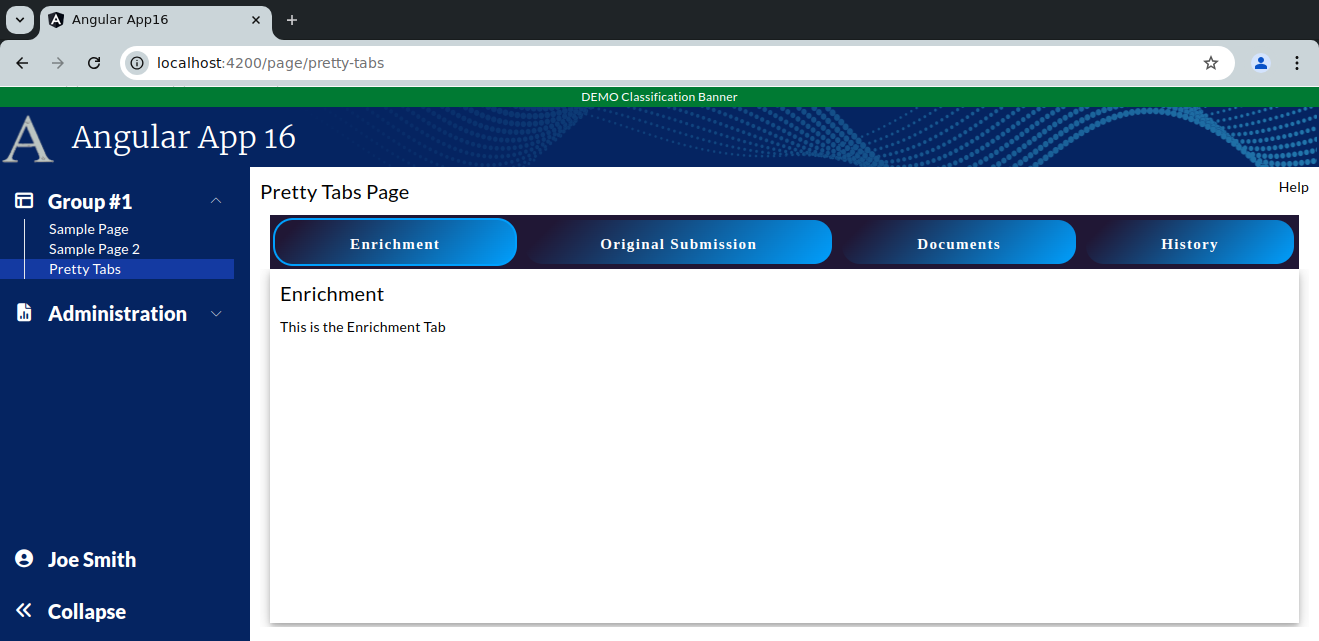
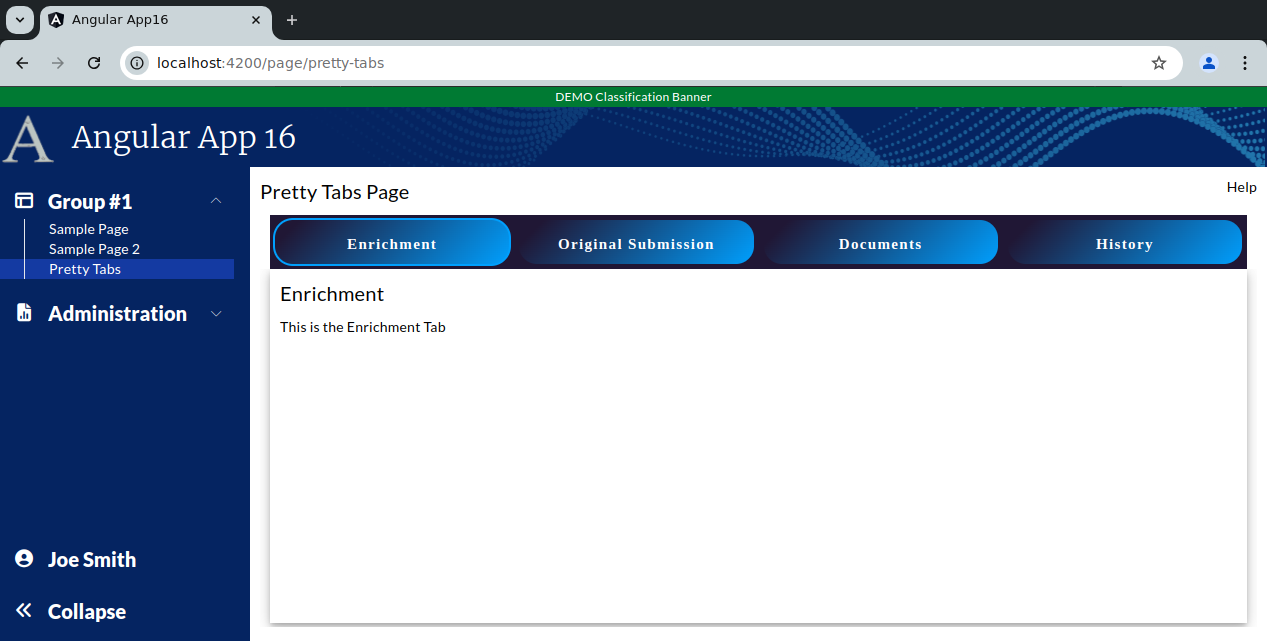
Continue working on exercise12b

diff --git a/learnAngular/lessons_Angular16/exercises/exercise12b.make-tabs-pretty.answers.md b/learnAngular/lessons_Angular16/exercises/exercise12b.make-tabs-pretty.answers.md
@@ -394,7 +394,7 @@ Part 4:  Build Tab Group v4  (Change the gradient colors)
     
     :host ::ng-deep .mdc-tab {
       /* Styles for ALL tabs */
-      //min-width: 175px !important;
+      width: 175px !important;           /* Set every tab to be 175px wide */
       color: white;
       font-family: 'Open Sans';
       font-style: normal;
